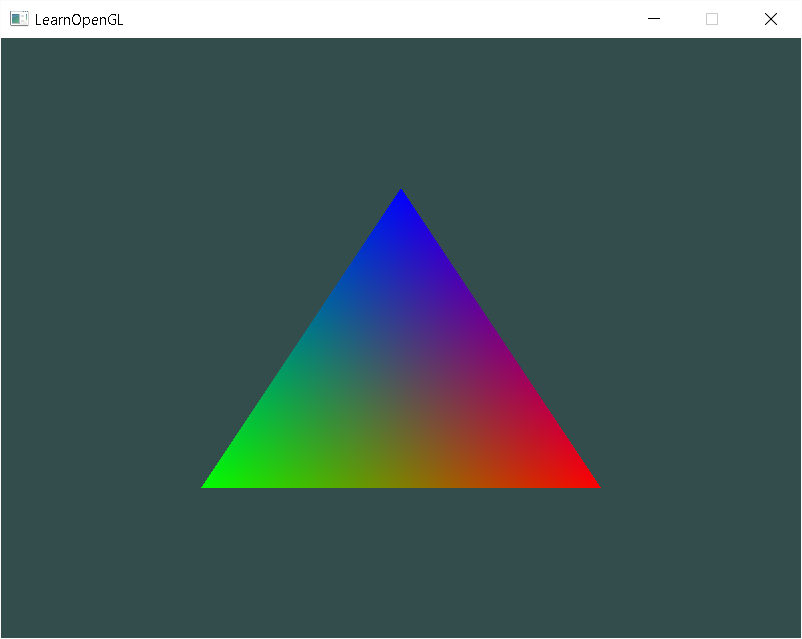
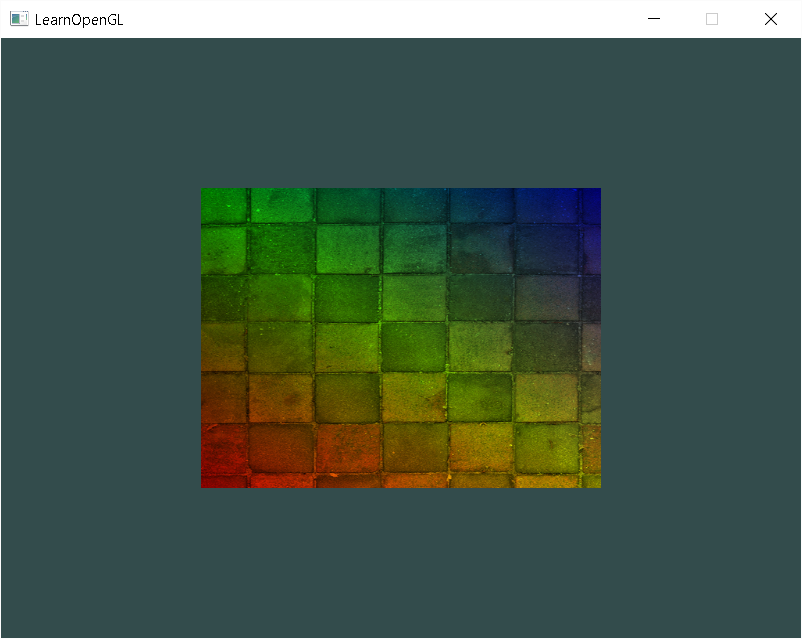
got sources from site and now I've got diskobricks goddamn yeah

Changed region(s): [[0.2494, 0.2676, 0.7481, 0.7731]]

diff --git a/OpenGlFirst/Test.cpp b/OpenGlFirst/Test.cpp
@@ -6,7 +6,160 @@
 
 // GLFW
 #include <GLFW/glfw3.h>
+// From site
+#include <iostream>
 
+// GLEW
+#define GLEW_STATIC
+#include <GL/glew.h>
+
+// GLFW
+#include <GLFW/glfw3.h>
+
+// Other Libs
+#include <SOIL\SOIL.h>
+
+// Other includes
+#include "Shader.h"
+
+
+// Function prototypes
+void key_callback(GLFWwindow* window, int key, int scancode, int action, int mode);
+
+// Window dimensions
+const GLuint WIDTH = 800, HEIGHT = 600;
+
+// The MAIN function, from here we start the application and run the game loop
+int main()
+{
+    // Init GLFW
+    glfwInit();
+    // Set all the required options for GLFW
+    glfwWindowHint(GLFW_CONTEXT_VERSION_MAJOR, 3);
+    glfwWindowHint(GLFW_CONTEXT_VERSION_MINOR, 3);
+    glfwWindowHint(GLFW_OPENGL_PROFILE, GLFW_OPENGL_CORE_PROFILE);
+    glfwWindowHint(GLFW_RESIZABLE, GL_FALSE);
+
+    // Create a GLFWwindow object that we can use for GLFW's functions
+    GLFWwindow* window = glfwCreateWindow(WIDTH, HEIGHT, "LearnOpenGL", nullptr, nullptr);
+    glfwMakeContextCurrent(window);
+
+    // Set the required callback functions
+    glfwSetKeyCallback(window, key_callback);
+
+    // Set this to true so GLEW knows to use a modern approach to retrieving function pointers and extensions
+    glewExperimental = GL_TRUE;
+    // Initialize GLEW to setup the OpenGL Function pointers
+    glewInit();
+
+    // Define the viewport dimensions
+    glViewport(0, 0, WIDTH, HEIGHT);
+
+
+    // Build and compile our shader program
+    Shader ourShader("C:\\Users\\Vadim\\Documents\\Visual Studio 2012\\Projects\\OpenGlFirst\\shaders\\textures.vs", "C:\\Users\\Vadim\\Documents\\Visual Studio 2012\\Projects\\OpenGlFirst\\shaders\\textures.frag");
+
+
+    // Set up vertex data (and buffer(s)) and attribute pointers
+    GLfloat vertices[] = {
+        // Positions          // Colors           // Texture Coords
+         0.5f,  0.5f, 0.0f,   1.0f, 0.0f, 0.0f,   1.0f, 1.0f, // Top Right
+         0.5f, -0.5f, 0.0f,   0.0f, 1.0f, 0.0f,   1.0f, 0.0f, // Bottom Right
+        -0.5f, -0.5f, 0.0f,   0.0f, 0.0f, 1.0f,   0.0f, 0.0f, // Bottom Left
+        -0.5f,  0.5f, 0.0f,   1.0f, 1.0f, 0.0f,   0.0f, 1.0f  // Top Left 
+    };
+    GLuint indices[] = {  // Note that we start from 0!
+        0, 1, 3, // First Triangle
+        1, 2, 3  // Second Triangle
+    };
+    GLuint VBO, VAO, EBO;
+    glGenVertexArrays(1, &VAO);
+    glGenBuffers(1, &VBO);
+    glGenBuffers(1, &EBO);
+
+    glBindVertexArray(VAO);
+
+    glBindBuffer(GL_ARRAY_BUFFER, VBO);
+    glBufferData(GL_ARRAY_BUFFER, sizeof(vertices), vertices, GL_STATIC_DRAW);
+
+    glBindBuffer(GL_ELEMENT_ARRAY_BUFFER, EBO);
+    glBufferData(GL_ELEMENT_ARRAY_BUFFER, sizeof(indices), indices, GL_STATIC_DRAW);
+
+    // Position attribute
+    glVertexAttribPointer(0, 3, GL_FLOAT, GL_FALSE, 8 * sizeof(GLfloat), (GLvoid*)0);
+    glEnableVertexAttribArray(0);
+    // Color attribute
+    glVertexAttribPointer(1, 3, GL_FLOAT, GL_FALSE, 8 * sizeof(GLfloat), (GLvoid*)(3 * sizeof(GLfloat)));
+    glEnableVertexAttribArray(1);
+    // TexCoord attribute
+    glVertexAttribPointer(2, 2, GL_FLOAT, GL_FALSE, 8 * sizeof(GLfloat), (GLvoid*)(6 * sizeof(GLfloat)));
+    glEnableVertexAttribArray(2);
+
+    glBindVertexArray(0); // Unbind VAO
+
+
+    // Load and create a texture 
+    GLuint texture;
+    glGenTextures(1, &texture);
+    glBindTexture(GL_TEXTURE_2D, texture); // All upcoming GL_TEXTURE_2D operations now have effect on this texture object
+    // Set the texture wrapping parameters
+    glTexParameteri(GL_TEXTURE_2D, GL_TEXTURE_WRAP_S, GL_REPEAT);	// Set texture wrapping to GL_REPEAT (usually basic wrapping method)
+    glTexParameteri(GL_TEXTURE_2D, GL_TEXTURE_WRAP_T, GL_REPEAT);
+    // Set texture filtering parameters
+    glTexParameteri(GL_TEXTURE_2D, GL_TEXTURE_MIN_FILTER, GL_LINEAR);
+    glTexParameteri(GL_TEXTURE_2D, GL_TEXTURE_MAG_FILTER, GL_LINEAR);
+    // Load image, create texture and generate mipmaps
+    int width, height;
+    unsigned char* image = SOIL_load_image("C:\\Users\\Vadim\\Documents\\Visual Studio 2012\\Projects\\OpenGlFirst\\images\\wall.jpg", &width, &height, 0, SOIL_LOAD_RGB);
+    glTexImage2D(GL_TEXTURE_2D, 0, GL_RGB, width, height, 0, GL_RGB, GL_UNSIGNED_BYTE, image);
+    glGenerateMipmap(GL_TEXTURE_2D);
+    SOIL_free_image_data(image);
+    glBindTexture(GL_TEXTURE_2D, 0); // Unbind texture when done, so we won't accidentily mess up our texture.
+
+
+    // Game loop
+    while (!glfwWindowShouldClose(window))
+    {
+        // Check if any events have been activiated (key pressed, mouse moved etc.) and call corresponding response functions
+        glfwPollEvents();
+
+        // Render
+        // Clear the colorbuffer
+        glClearColor(0.2f, 0.3f, 0.3f, 1.0f);
+        glClear(GL_COLOR_BUFFER_BIT);
+
+
+        // Bind Texture
+        glBindTexture(GL_TEXTURE_2D, texture);
+
+        // Activate shader
+        ourShader.Use();       
+        
+        // Draw container
+        glBindVertexArray(VAO);
+        glDrawElements(GL_TRIANGLES, 6, GL_UNSIGNED_INT, 0);
+        glBindVertexArray(0);
+
+        // Swap the screen buffers
+        glfwSwapBuffers(window);
+    }
+    // Properly de-allocate all resources once they've outlived their purpose
+    glDeleteVertexArrays(1, &VAO);
+    glDeleteBuffers(1, &VBO);
+    glDeleteBuffers(1, &EBO);
+    // Terminate GLFW, clearing any resources allocated by GLFW.
+    glfwTerminate();
+    return 0;
+}
+
+// Is called whenever a key is pressed/released via GLFW
+void key_callback(GLFWwindow* window, int key, int scancode, int action, int mode)
+{
+    if (key == GLFW_KEY_ESCAPE && action == GLFW_PRESS)
+        glfwSetWindowShouldClose(window, GL_TRUE);
+}
+
+	/*
 // SOIL (Simple OpenGL image lib).
 #include <SOIL\SOIL.h>
 
@@ -210,3 +363,5 @@ void key_callback(GLFWwindow* window, int key, int scancode, int action, int mod
     if (key == GLFW_KEY_ESCAPE && action == GLFW_PRESS)
         glfwSetWindowShouldClose(window, GL_TRUE);
 }
+
+*/
